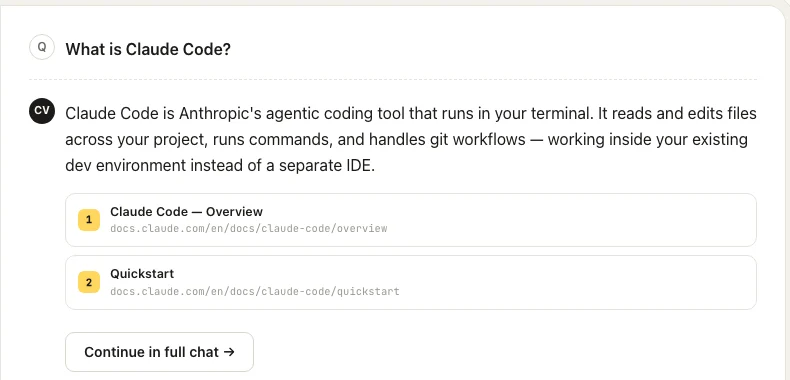
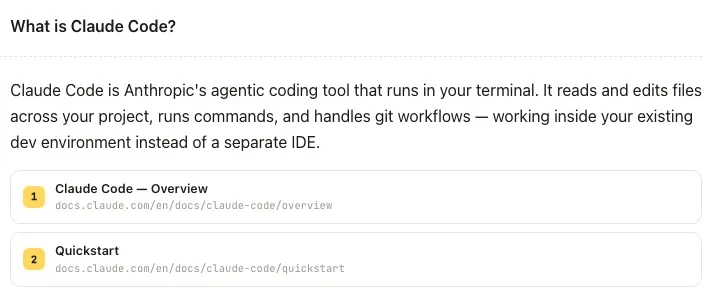
DEF-70: CiteVyn and SaafSaans get a desktop-legible strip as their home panel (0.41→0.67, 0.30→0.66); gate GREEN, homeCrop mutation red

diff --git a/src/data/projects.js b/src/data/projects.js
@@ -32,6 +32,12 @@ export const projects = {
     ],
     proof: 'Twenty-six answerable questions. It found the right source for <em>every one</em>.',
     shot: 'citevyn-demo',
+    /* citevyn-demo is 1160px wide; at the home plate's 477px column it rendered at
+       0.41 of its size, a 16px line meeting the reader at ~6.6px (DEF-70). The
+       crop is the answer with its two citations — 712x296, cut from the same
+       committed capture, 0.67 at the column — and is the home image at every
+       width. The full capture stays on the project page. Measured, not guessed. */
+    homeCrop: true,
     crop: 'citevyn-crop',
     alt:
       'CiteVyn answering a question about Claude Code, with two numbered citations to real ' +
@@ -124,6 +130,11 @@ export const projects = {
       'Two people, one sky. The adult with asthma scores <em>76</em>. The healthy adult, same ' +
       'plans, scores <em>64</em>.',
     shot: 'saafsaans-en',
+    /* saafsaans-en is 1600px wide; at the 477px column it rendered at 0.30 — the
+       11px mono caps at ~3.3px (DEF-70). The crop is the persona line, the
+       headline and both score chips — 728x186, cut from the same live capture,
+       0.66 at the column — and is the home image at every width. */
+    homeCrop: true,
     crop: 'saafsaans-crop',
     alt:
       'SaafSaans showing a risk score of 76 out of 100 for an adult with asthma beside 64 for a healthy ' +

diff --git a/docs/evidence/projects/saafsaans.md b/docs/evidence/projects/saafsaans.md
@@ -148,7 +148,7 @@ Taken from the running site, not from stored screenshots.
 | File | Source |
 |---|---|
 | `src/assets/projects/saafsaans-en.webp` | `https://saafsaans.stackclimb.com` |
-| `src/assets/projects/saafsaans-crop.webp` | mobile crop of the above, served below 700px |
+| `src/assets/projects/saafsaans-crop.webp` | crop of the above — the persona line, headline and both score chips, 728×186. **Re-cut 2026-08-26 (DEF-70):** it was a 900×267 phone crop served below 700px; the home plate now shows it at every width (`homeCrop`), because the full capture rendered at 0.30 of its size in the desktop column. The project page still shows the full capture above 700px |
 
 **Removed 2026-08-12 (D74):** `saafsaans-hi.webp`, captured from
 `https://saafsaans.stackclimb.com/?theme=light&lang=hi`. It was referenced by nothing — no

diff --git a/docs/evidence/projects/citevyn.md b/docs/evidence/projects/citevyn.md
@@ -124,3 +124,9 @@ visual baseline. Shows a real answer with **two real documentation citations**
 the left rail as `USAGE` / `EXACT LOOKUP` / `HOW-TO` / `OUT OF SCOPE`.
 
 Unlike the golden-suite fixtures, these citation URLs are real. Verified by reading the image.
+
+`src/assets/projects/citevyn-crop.webp` — the answer with its two citations, 712×296, cut from
+the capture above. **Re-cut 2026-08-26 (DEF-70):** it was a 790×380 phone crop served below
+700px; the home plate now shows it at every width (`homeCrop`), because the full capture rendered
+at 0.41 of its size in the desktop column — a 16px line at ~6.6px. The left rail with the intent
+router is out of the crop's frame and stays on the project page, which shows the full capture.
